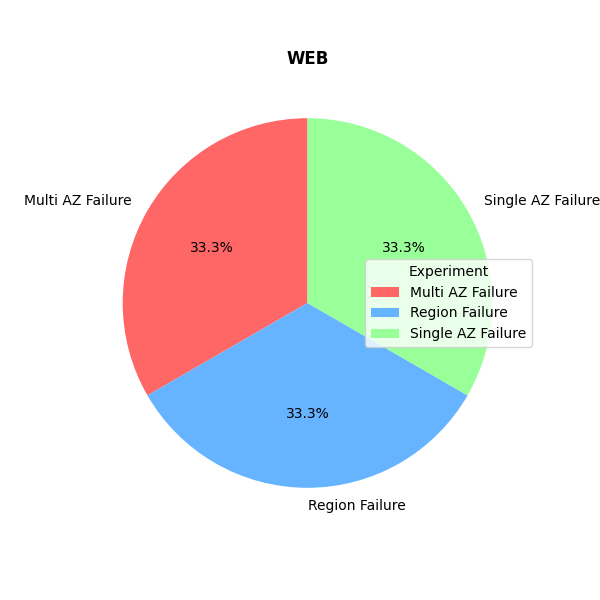
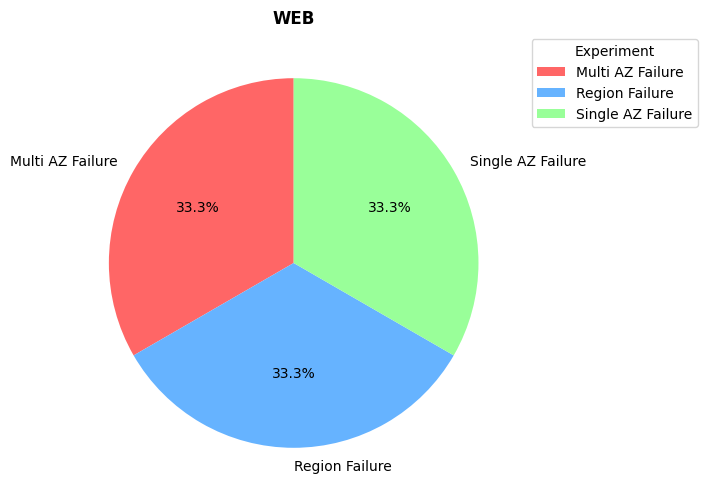
11

diff --git a/11.py b/11.py
@@ -1,0 +1,75 @@
+import pandas as pd
+import json
+import matplotlib.pyplot as plt
+from fpdf import FPDF
+
+# Load the JSON data from the files
+with open("/home/ec2-user/python/result.json", "r") as result_file:
+    result_data = json.load(result_file)
+
+with open("/home/ec2-user/python/SRE CHAOS SUMMARY REPORT.json", "r") as sre_file:
+    sre_data = json.load(sre_file)
+
+# Create a dataframe for result.json data
+result_df = pd.DataFrame(result_data)
+
+# Create a dataframe for SRE CHAOS SUMMARY REPORT.json data
+sre_df = pd.DataFrame(sre_data)
+
+# Generate Pie Chart from the 'Results' field in result.json
+result_counts = result_df.groupby('Experiment')['Results'].count()
+plt.figure(figsize=(6, 6))
+plt.pie(result_counts, labels=result_counts.index, autopct='%1.1f%%', colors=['#ff6666', '#66b3ff', '#99ff99'], startangle=90)
+plt.title('WEB', fontweight='bold')
+
+# Position the legend to the upper right outside the pie chart
+plt.legend(result_counts.index, title="Experiment", loc="upper left", bbox_to_anchor=(1, 1))
+
+# Save the pie chart as an image
+plt.savefig('/home/ec2-user/python/pie_chart.png', bbox_inches="tight")
+plt.close()
+
+# Generate PDF
+class PDF(FPDF):
+    def header(self):
+        self.set_font('Arial', 'B', 16)
+        self.cell(0, 10, 'SRE CHAOS SUMMARY REPORT', 0, 1, 'C')
+        self.ln(10)
+
+    def add_table(self, sre_data):
+        self.set_font('Arial', 'B', 12)
+        # Set table columns (Key-Value like structure)
+        for row in sre_data:
+            self.cell(90, 10, row["Requirments"], 1, 0, 'L')
+            self.set_font('Arial', '', 12)
+            self.cell(90, 10, row["Details"], 1, 1, 'L')
+            self.set_font('Arial', 'B', 12)
+
+    def add_results_heading(self):
+        self.set_font('Arial', 'B', 12)
+        self.cell(0, 10, 'Chaos Test Results:', 0, 1)
+        self.ln(10)
+
+    def add_pie_chart(self):
+        self.image('/home/ec2-user/python/pie_chart.png', x=50, y=None, w=110, h=110)
+
+# Create PDF
+pdf = PDF()
+
+# Add a page and the report title
+pdf.add_page()
+
+# Add the SRE Chaos Summary table
+pdf.add_table(sre_data)
+
+# Add the results section heading and pie chart
+pdf.add_page()  # Create a new page for the results
+pdf.add_results_heading()
+pdf.add_pie_chart()
+
+# Save the PDF
+pdf_output_path = '/home/ec2-user/python/Chaos_SRE_Report_Full.pdf'
+pdf.output(pdf_output_path)
+
+print(f"PDF report saved as {pdf_output_path}")
+
